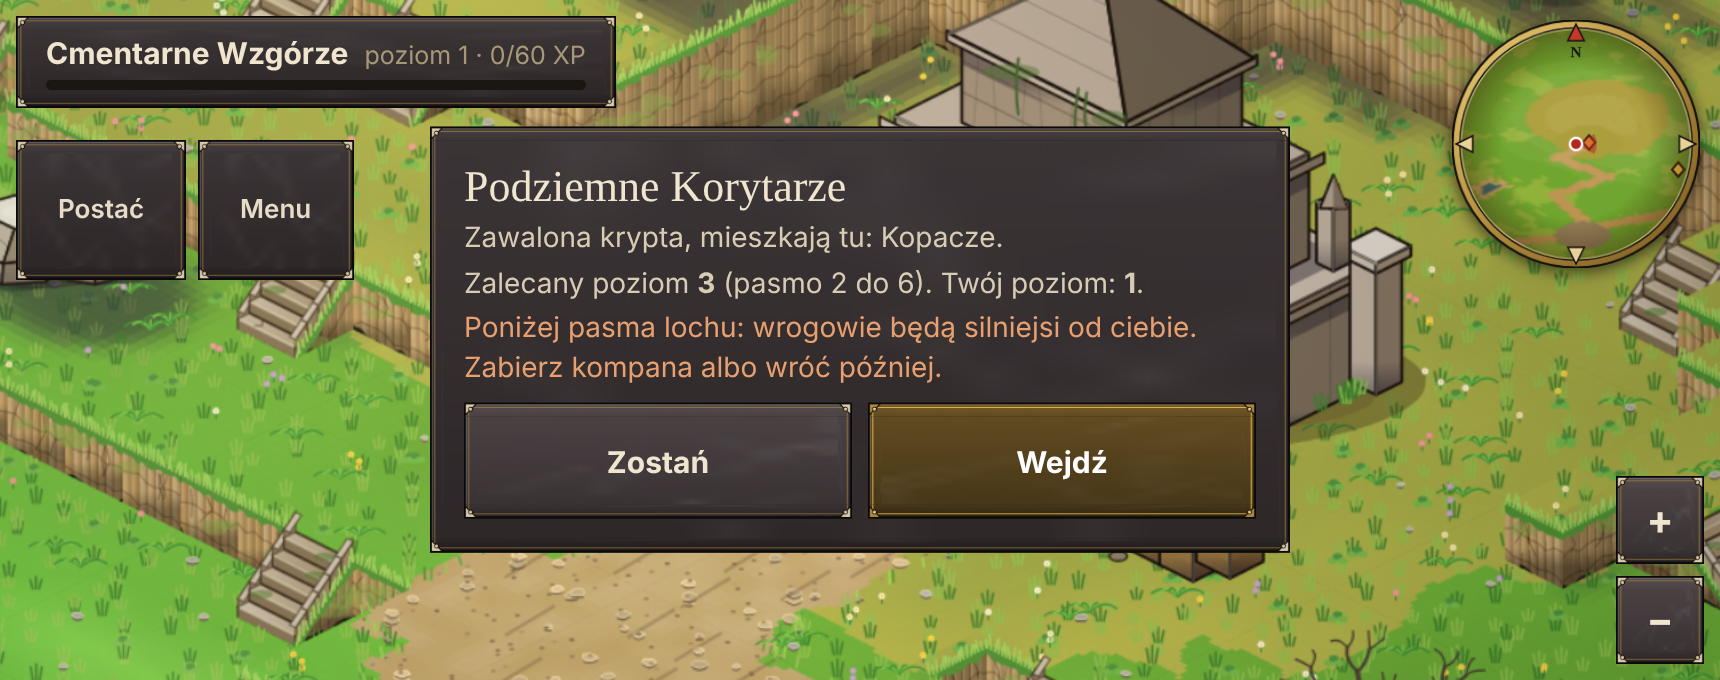
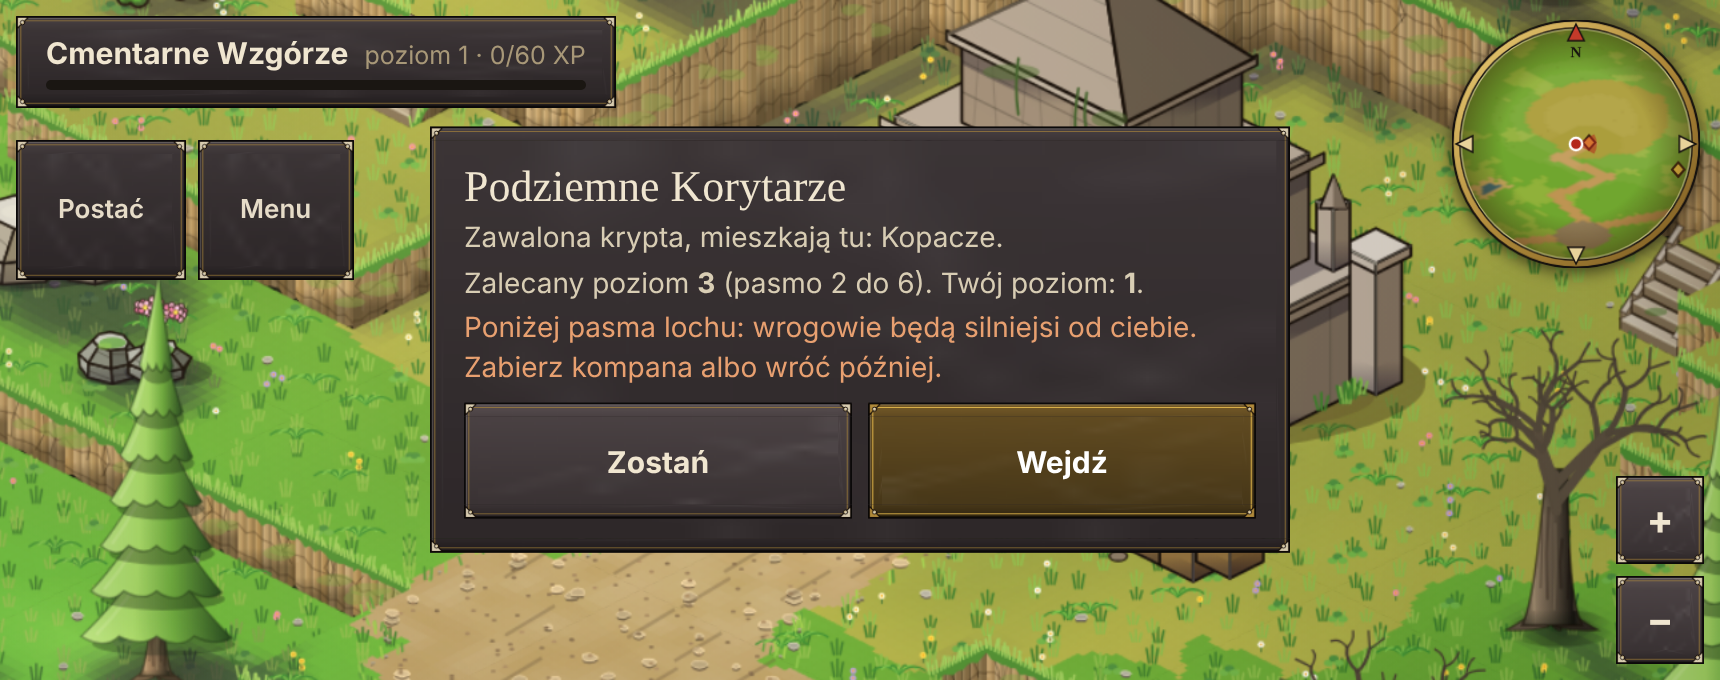
Postać z profilu (E/W): głowa z nosem, okiem i uchem, kaptur i włosy do tyłu, ręce wzdłuż ruchu, większe buty; rzadsze schody (odstęp 11 kafli)
Claude-Session: https://claude.ai/code/session_01YGgK3XekFYaLDhBRBtmmRq

diff --git a/src/art/characters.js b/src/art/characters.js
@@ -99,13 +99,13 @@ export function drawCharacter(g, x, y, sp, o = {}) {
   const drawLeg = (cx, L) => {
     const fx = cx + L.dx, fy = L.dy - L.lift;
     poly([[cx - 2.8, -13 + HL - EXT], [cx + 2.8, -13 + HL - EXT], [fx + 2.8, fy - 4], [fx - 2.8, fy - 4]], O_.pants, 1.5);
-    poly([[fx - 3, fy - 5], [fx + 3, fy - 5], [fx + 3.6 + (back ? 0 : 1.8), fy], [fx - 3.4, fy]], O_.boots, 1.6);
+    poly([[fx - 3.3, fy - 6.5], [fx + 3.3, fy - 6.5], [fx + 4 + (back ? 0 : 1.8) + (side ? 2.4 : 0), fy + 0.4], [fx - 3.7, fy + 0.4]], O_.boots, 1.6); ln([[fx - 3, fy - 5.6], [fx + 3, fy - 5.6]], 1.1, 'rgba(255,255,255,.18)');
   };
   g.save(); g.translate(0, -EXT);
   // tył: peleryna za ciałem (widok z przodu)
   if (sp.cloak && !back) poly([[-shw - 1.5, -27 + bob], [shw + 1.5, -27 + bob], [hw + 5, -4 + EXT], [-hw - 5, -4 + EXT]], lg(-hw, 0, hw, 0, shade(sp.cloak, -0.06), shade(sp.cloak, -0.16)), 1.8);
   if (sp.pack === 'quiver' && !back) { poly([[shw - 2, -22 + bob], [shw + 4, -26 + bob], [shw + 7, -34 + bob], [shw + 1, -30 + bob]], '#7a4a26', 1.5); for (let i = 0; i < 3; i++) ln([[shw + 3 + i, -31 + bob - i], [shw + 5 + i, -37 + bob - i]], 1.2, '#e8e0c8'); }
-  if (!back && !(sp.hat && sp.hat.kind === 'hood') && (sp.hairStyle === 'long' || sp.hairStyle === 'braids')) {
+  if (!back && !side && !(sp.hat && sp.hat.kind === 'hood') && (sp.hairStyle === 'long' || sp.hairStyle === 'braids')) {
     const hr0 = 8.6 * HEAD * sp.headS * (sp.female && sp.role !== 'child' ? 0.96 : 1), hy0 = -35 - (sp.headS - 1) * 8; g.save(); g.translate(0, bob); drapePath(g, hr0, hy0);
     g.fillStyle = lg(0, hy0 - hr0, 0, hy0 + hr0, shade(sp.hair, 0.1), shade(sp.hair, -0.12)); g.fill(); g.lineWidth = 1.6; g.strokeStyle = OUT; g.stroke(); g.restore();
   }
@@ -153,7 +153,7 @@ export function drawCharacter(g, x, y, sp, o = {}) {
   // --- ręce ---
   const armSw = walking ? Math.sin(th) : 0;
   const sleeve = O_.kind === 'armor' ? O_.metal : base, glove = O_.kind === 'armor' ? shade(O_.metal, -0.15) : sp.skin;
-  const hand = (sd) => { const a = sd * armSw * 2.4 * (back ? -1 : 1); return [sd * (hw + 3.6), -13.5 + a, sd * (shw - 0.6), -25.5]; };
+  const hand = (sd) => { if (side) { const sw = sd * armSw * 6.5; return [1 + sw, -14 - Math.abs(sw) * 0.25, 1 + sd * 0.8, -25.5]; } const a = sd * armSw * 2.4 * (back ? -1 : 1); return [sd * (hw + 3.6), -13.5 + a, sd * (shw - 0.6), -25.5]; };
   const drawArm = (sd) => { const [hx, hy, sx, sy] = hand(sd); ln([[sx, sy], [hx, hy]], 6.6, OUT); ln([[sx, sy], [hx, hy]], 4.6, sd < 0 ? bDark : sleeve); circ(hx, hy + 1.4, 2.3, glove, 1.2); if (O_.kind === 'armor') circ(sx, sy + 0.5, 3.6, shade(O_.metal, 0.06), 1.4); };
   const held = (sd) => {
     const [hx, hy] = hand(sd);
@@ -177,13 +177,31 @@ export function drawCharacter(g, x, y, sp, o = {}) {
   const hairCol = sp.hair, hairDk = shade(hairCol, -0.12), hairLt = shade(hairCol, 0.1);
   const hair = (pts, lw = 1.6) => poly(pts, lg(0, hy - hr, 0, hy + hr, hairLt, hairDk), lw);
   const fillHair = () => { g.fillStyle = lg(0, hy - hr, 0, hy + hr, hairLt, hairDk); g.fill(); g.lineWidth = 1.6; g.strokeStyle = OUT; g.lineJoin = 'round'; g.stroke(); };
+  // głowa z profilu (E/W): czaszka z tyłu, twarz z przodu (nos, jedno oko, ucho), włosy opadają do tyłu
+  const profileHead = () => {
+    const hr2 = hr, cx = 1.4, hs2 = sp.hairStyle, longH = hs2 === 'long' || hs2 === 'braids' || hs2 === 'ponytail';
+    poly([[-2, hy + hr2 - 2], [3, hy + hr2 - 2], [3.4, hy + hr2 + 3.5], [-2, hy + hr2 + 3.5]], shade(sp.skin, -0.1), 1.4);
+    if (!hoodUp && hs2 !== 'bald') { if (longH) poly([[cx - hr2 * 0.9, hy - 4], [cx - hr2 - 3.5, hy + 4], [cx - hr2 - 2, hy + hr2 + 11], [cx - 1, hy + hr2 + 9], [cx, hy]], lg(0, hy - hr2, 0, hy + hr2 + 10, shade(sp.hair, 0.04), shade(sp.hair, -0.16)), 1.6); if (hs2 === 'bun') circ(cx - hr2 * 0.7, hy - hr2 - 1.6, 4, sp.hair, 1.6); }
+    if (hoodUp) { g.beginPath(); g.ellipse(cx - 2.2, hy - 0.5, hr2 + 2.6, hr2 + 2, 0, 0, Math.PI * 2); g.fillStyle = shade(sp.cloak || base, -0.08); g.fill(); g.lineWidth = 1.8; g.strokeStyle = OUT; g.stroke(); }
+    g.beginPath(); g.ellipse(cx, hy, hr2 * 0.94, hr2, 0, 0, Math.PI * 2); g.fillStyle = lg(cx - hr2, hy, cx + hr2, hy, shade(sp.skin, -0.06), shade(sp.skin, 0.06)); g.fill(); g.lineWidth = 1.8; g.strokeStyle = OUT; g.stroke();
+    const nx = cx + hr2 * 0.9; poly([[nx - 0.8, hy + 1.2], [nx + 2.6, hy + 3.6], [nx - 0.6, hy + 4.4]], shade(sp.skin, 0.02), 1.3);
+    const ex = cx + hr2 * 0.5, ey = hy + 0.2; ell(ex, ey, 1.7, 2.1, '#d8d0c0', 0.8); circ(ex + 0.6, ey + 0.2, 1.1, sp.eye, 0); circ(ex + 0.8, ey + 0.2, 0.6, '#16100c', 0); circ(ex + 1, ey - 0.6, 0.4, '#fff', 0);
+    ln([[ex - 2, ey - 3.2], [ex + 2.2, ey - 3.6 + sp.brow * 0.4]], 1.5, shade(sp.hair, -0.12));
+    ln([[cx + hr2 * 0.55, hy + 6], [cx + hr2 * 0.9, hy + 5.6]], 1.1, sp.female ? '#a8302a' : '#6a2a1a');
+    blob(cx + hr2 * 0.3, hy + 4.2, 2.4, 1.5, '#ff7a6a', 0.22);
+    if (sp.face && sp.face.ears === 'pointy') poly([[cx - 1, hy - 0.5], [cx - 7.5, hy - 5], [cx - 0.6, hy + 3.2]], shade(sp.skin, -0.04), 1.2); else circ(cx - 0.8, hy + 1.2, 2.5, shade(sp.skin, -0.08), 1.2);
+    if (!hoodUp && hs2 !== 'bald') { g.beginPath(); g.arc(cx - 0.6, hy - 1, hr2 + 0.8, Math.PI * 1.02, Math.PI * 1.98); g.lineTo(cx + hr2 * 0.9, hy - 4); g.quadraticCurveTo(cx + hr2 * 0.4, hy - 8, cx - hr2 * 0.2, hy - 2); g.lineTo(cx - hr2 - 0.5, hy + 2); g.closePath(); g.fillStyle = lg(0, hy - hr2, 0, hy, shade(sp.hair, 0.1), shade(sp.hair, -0.12)); g.fill(); g.lineWidth = 1.6; g.strokeStyle = OUT; g.stroke(); ln([[cx - 3, hy - hr2 + 1.5], [cx + 3, hy - hr2 + 3]], 1.2, 'rgba(255,255,255,.3)'); }
+    if (hoodUp) { g.beginPath(); g.ellipse(cx - 1.2, hy - 1, hr2 + 2.2, hr2 + 1.6, 0, Math.PI * 1.02, Math.PI * 1.9); g.lineWidth = 4.4; g.strokeStyle = OUT; g.stroke(); g.lineWidth = 2.6; g.strokeStyle = shade(sp.cloak || base, -0.02); g.stroke(); }
+    if (sp.mask) { poly([[cx + 0.5, hy + 2.6], [cx + hr2 * 0.95, hy + 2.8], [cx + hr2 * 0.7, hy + hr2 + 3], [cx - 0.5, hy + hr2 + 2]], sp.mask, 1.4); }
+  };
   // włosy za głową
-  const hs = sp.hairStyle, hoodUp = sp.hat && sp.hat.kind === 'hood';
-  if (!hoodUp) {
+  const hs = sp.hairStyle, hoodUp = sp.hat && sp.hat.kind === 'hood', prof = side > 0 && !back;
+  if (!hoodUp && !prof) {
     if (hs === 'ponytail') { g.beginPath(); g.moveTo(-hr + 1, hy - 3); g.bezierCurveTo(-hr - 9, hy - 2, -hr - 10, hy + 10, -hr - 4, hy + 16); g.bezierCurveTo(-hr - 3, hy + 8, -hr + 1, hy + 4, -hr + 3, hy + 2); g.closePath(); g.fillStyle = hairCol; g.fill(); g.lineWidth = 1.6; g.strokeStyle = OUT; g.stroke(); }
   }
   if (hoodUp) { poly([[-hr - 2.5, hy + 4], [-hr - 3, hy - 7], [-hr * 0.5, hy - hr - 4], [hr * 0.5, hy - hr - 4], [hr + 3, hy - 7], [hr + 2.5, hy + 4]], shade(sp.cloak || base, -0.05), 1.8); }
   // szyja i głowa
+  if (!prof) {
   poly([[-3, hy + hr - 2], [3, hy + hr - 2], [3, hy + hr + 3.5], [-3, hy + hr + 3.5]], shade(sp.skin, -0.08), 1.4);
   if (!back) {
     const FS = FACE_SHAPES[(sp.face && sp.face.shape) || 'round'] || FACE_SHAPES.round, pointy = sp.face && sp.face.ears === 'pointy';
@@ -243,6 +261,8 @@ export function drawCharacter(g, x, y, sp, o = {}) {
   }
   if (hoodUp && !back) { poly([[-hr - 1.5, hy + 3], [-hr - 1.5, hy - 5], [-hr * 0.7, hy - hr - 2.5], [hr * 0.7, hy - hr - 2.5], [hr + 1.5, hy - 5], [hr + 1.5, hy + 3], [hr - 0.5, hy + 1], [hr - 1.5, hy - 5], [0, hy - 8.5], [-hr + 1.5, hy - 5], [-hr + 0.5, hy + 1]], shade(sp.cloak || base, -0.02), 1.7); }
   if (hoodUp && back) { g.beginPath(); g.arc(hx0, hy - 1, hr + 1.8, Math.PI * 0.9, Math.PI * 2.1); g.fillStyle = shade(sp.cloak || base, -0.04); g.fill(); g.lineWidth = 1.8; g.strokeStyle = OUT; g.stroke(); g.beginPath(); g.arc(hx0, hy + 2, hr + 1.4, 0.05, Math.PI - 0.05); g.fill(); g.stroke(); }
+  }
+  if (prof) profileHead();
   // nakrycia głowy
   const hat = sp.hat;
   if (hat && hat.kind !== 'hood') {

diff --git a/src/world/kraina.js b/src/world/kraina.js
@@ -99,9 +99,10 @@ export function generateWorld(seed = 1) {
   for (let y = 0; y < N; y++) for (let x = 0; x < N; x++) if (Math.hypot(x + 0.5 - cx0, y + 0.5 - cy0) < 7.5) { lvl[idx(x, y)] = CRYPT_L; ramp[idx(x, y)] = 0; if (cellKind[idx(x, y)] !== KIND.road) cellKind[idx(x, y)] = KIND.dry; }
   // dodatkowe schody w paru miejscach tarasów wzgórza (kafel o jeden niższy od sąsiada, bez wody i bez ścieżki)
 // dodatkowe schody tylko tam, gdzie mają sens: schodzą od tarasu w stronę widza (ściana z widocznymi stopniami), oba końce to suchy ląd, a po bokach jest ten sam poziom (ściana po obu stronach)
-  { const DIR = [[-1, 0, 2], [0, -1, 4]], dry = (q) => cellKind[q] !== KIND.water && cellKind[q] !== KIND.chasm && cellKind[q] !== KIND.shallow && cellKind[q] !== KIND.sand;
+  { const placed = []; for (let q = 0; q < N * N; q++) if (ramp[q]) placed.push([q % N, Math.floor(q / N)]); const near = (x, y, r) => placed.some(([a, b]) => Math.abs(a - x) < r && Math.abs(b - y) < r);
+    const DIR = [[-1, 0, 2], [0, -1, 4]], dry = (q) => cellKind[q] !== KIND.water && cellKind[q] !== KIND.chasm && cellKind[q] !== KIND.shallow && cellKind[q] !== KIND.sand;
     for (let y = 2; y < N - 2; y++) for (let x = 2; x < N - 2; x++) { const k = idx(x, y); if (cellRegion[k] !== 2 || ramp[k] || cellKind[k] === KIND.road || !dry(k)) continue;
-      for (const [dx, dy, code] of DIR) { const hi = idx(x + dx, y + dy), lo = idx(x - dx, y - dy), side = [idx(x + dy, y + dx), idx(x - dy, y - dx)]; if (lvl[hi] === lvl[k] + 1 && lvl[lo] === lvl[k] && !ramp[hi] && !ramp[lo] && dry(hi) && dry(lo) && side.every((q) => lvl[q] === lvl[k] + 1 || lvl[q] === lvl[k]) && hash2(seed + 55, x * 5 + code, y) < 0.18) { ramp[k] = code; break; } } } }
+      for (const [dx, dy, code] of DIR) { const hi = idx(x + dx, y + dy), lo = idx(x - dx, y - dy), side = [idx(x + dy, y + dx), idx(x - dy, y - dx)]; if (lvl[hi] === lvl[k] + 1 && lvl[lo] === lvl[k] && !ramp[hi] && !ramp[lo] && dry(hi) && dry(lo) && side.every((q) => lvl[q] === lvl[k] + 1 || lvl[q] === lvl[k]) && hash2(seed + 55, x * 5 + code, y) < 0.35 && !near(x, y, 11)) { ramp[k] = code; placed.push([x, y]); break; } } } }
   // końcowe czyszczenie krawędzi po drogach i schodach: wąskie wcięcia i wypustki poza drogami i sąsiedztwem schodów znikają
   { const fixed = new Uint8Array(N * N); for (let y = 1; y < N - 1; y++) for (let x = 1; x < N - 1; x++) { const k = idx(x, y); if (ramp[k] || cellKind[k] === KIND.road || cellKind[k] === KIND.plaza) for (let j = -2; j <= 2; j++) for (let i = -2; i <= 2; i++) fixed[idx(x + i, y + j)] = 1; }
     for (let pass = 0; pass < 3; pass++) { const copy = lvl.slice(); for (let y = 1; y < N - 1; y++) for (let x = 1; x < N - 1; x++) { const k = idx(x, y); if (fixed[k] || water[k] || cellKind[k] === KIND.chasm) continue; const c = copy[k], g = (i, j) => copy[idx(x + i, y + j)]; let to = c;
